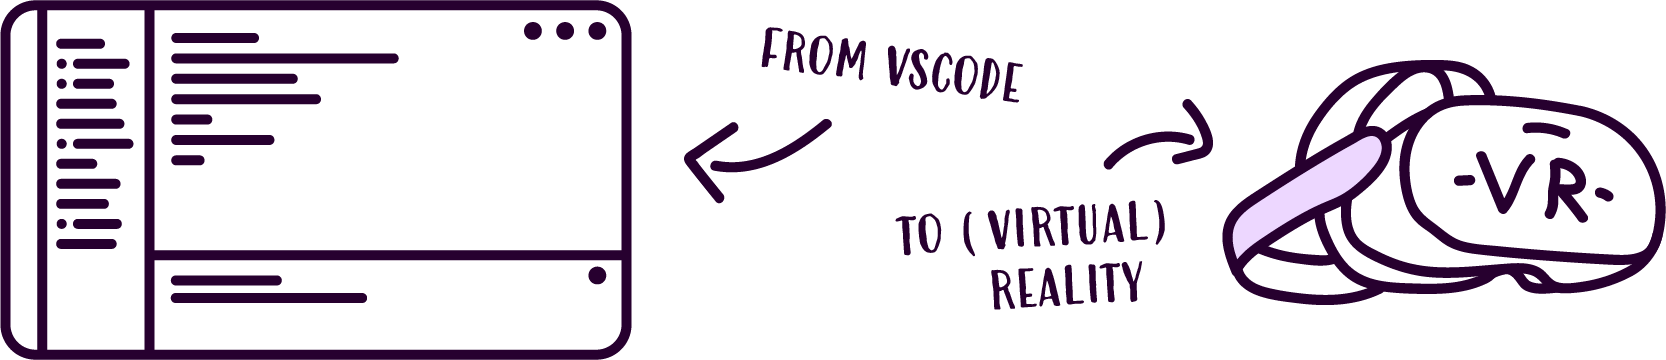
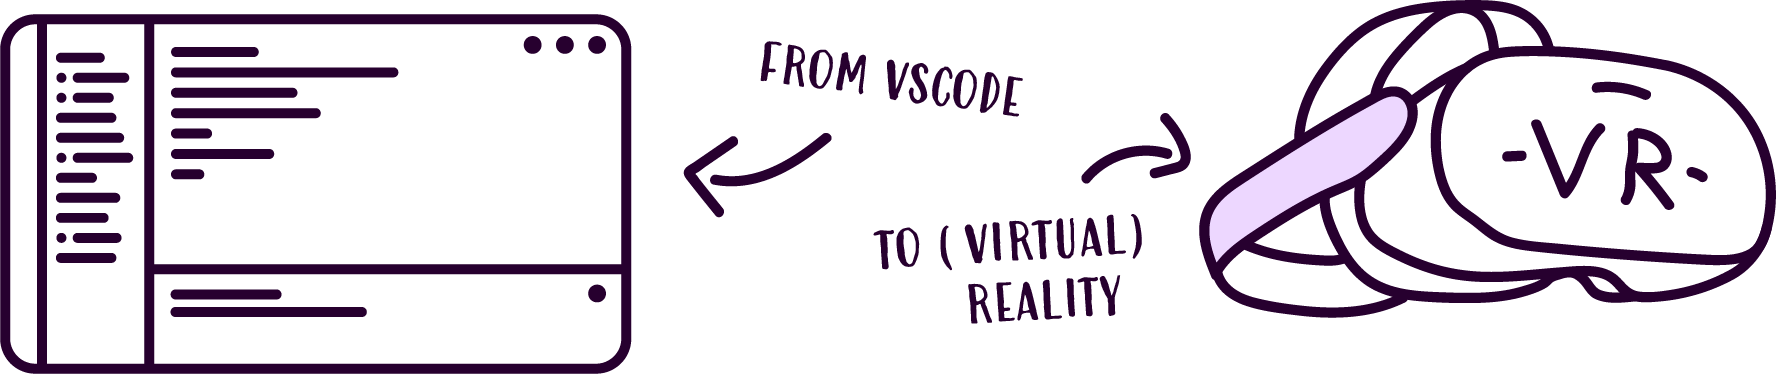
Fixed image on mobile

Changed region(s): [[0.0, 0.0, 0.6242, 1.0], [0.4682, 0.0, 1.0, 0.8556]]

diff --git a/components/Tracks.tsx b/components/Tracks.tsx
@@ -14,6 +14,7 @@ import Card from "../components/Card";
 import Illustration1 from '../public/Illustration1.png';
 import Illustration2 from '../public/Illustration2.png';
 import Illustration3 from '../public/Illustration3.png';
+import Illustration4 from '../public/Illustration4.png';
 import { Divider } from '@mantine/core';
 
 import { useEffect } from 'react';
@@ -143,7 +144,8 @@ const Tracks = () => {
                 </div>
                 <div className="teamHolder">
                     <div className="illustrationContainer2" data-aos="fade-up" data-aos-easing="ease-sine" data-aos-anchor-placement="center-bottom" data-aos-once="true">
-                        <img src={Illustration3.src} className="illustration" />
+                        <img src={Illustration3.src} className="illustration laptop" />
+                        <img src={Illustration4.src} className="illustration mobile" />
                     </div>
                 </div>
             </section>

diff --git a/styles/tracks.css b/styles/tracks.css
@@ -48,6 +48,8 @@
     width: 100%;
     height: 100%;
     object-fit: contain;
+    padding-left: 40px;
+    padding-right: 40px;
 }
 
 .illustrationContainer2 {
@@ -66,5 +68,26 @@
     }
     .illustrationContainer2 {
         max-width: 1150px;
+    }
+}
+
+.illustration.mobile {
+    max-width: 500px;
+}
+
+@media only screen and (max-width: 900px) {
+    .illustration.laptop {
+        visibility: hidden;
+        width: 0;
+        height: 0;
+        padding: 0;
+    }
+}
+@media only screen and (min-width: 900px) {
+    .illustration.mobile {
+        visibility: hidden;
+        width: 0;
+        height: 0;
+        padding: 0;
     }
 }
